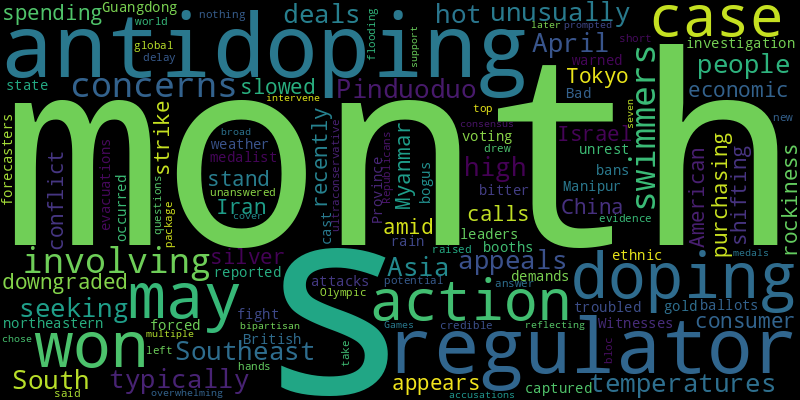
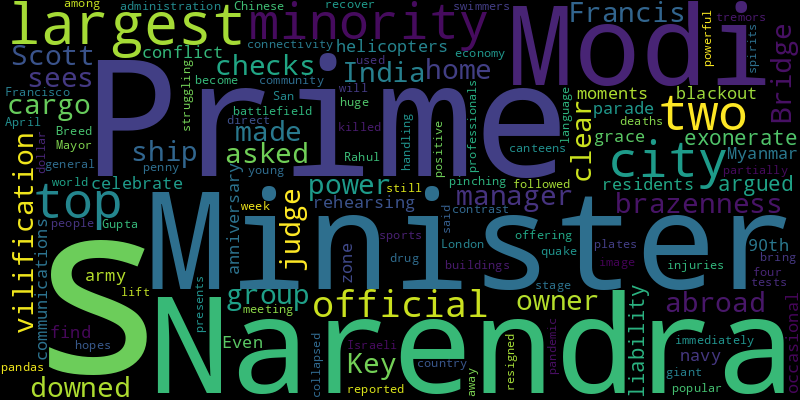
chore(bot): 🙈 auto commit

diff --git a/README.md b/README.md
@@ -2,41 +2,41 @@
 Auto RSS New York Times and Generate Word Cloud
 
 ## New York Times Global News
-* Aharon Haliva, the head of military intelligence, is the highest-ranking Israeli official to step down since the Hamas-led attack.
-* The strike on Iran on Friday was originally intended to be much broader in scope, but after intense pressure from allies, Israeli leaders agreed to ratchet it down.
+* The United Nations and others said donors should resume support for UNRWA after a review found that Israel hadn’t backed up claims that many agency workers are members of terrorist groups.
+* The United Nations says famine is likely to set in by May. For those living under Israel’s attacks and a crippling blockade, every day is a race against time.
+* Even through the Myanmar army’s communications blackout, residents of a conflict zone find moments of grace, and occasional connectivity, away from the battlefield.
+* The two helicopters were rehearsing for a parade to celebrate the navy’s 90th anniversary.
+* The outlay reached $2.4 trillion last year, a research group found, 6.8 percent up on 2022. Tensions in Asia and the Middle East also contributed.
+* Britain’s Parliament passed contentious legislation to allow the deportation of asylum seekers to the African country, a political victory for Prime Minister Rishi Sunak.
+* The direct language used against the country’s largest minority was a contrast to the image Prime Minister Narendra Modi presents on the world stage.
+* Sensitive naval data and a high-powered laser were obtained for China by three German citizens, according to prosecutors.
 * April is typically hot in South and Southeast Asia, but temperatures this month have been unusually high.
-* Much-needed munitions like artillery shells could start arriving relatively quickly, but experts say it could take weeks before U.S. assistance has a direct impact on the war.
-* The assaults have all but destroyed the factories and plants that were the economic lifeblood of the towns and cities in Ukraine’s east.
-* Voters in Ecuador gave their new president, Daniel Noboa, who deployed the military to fight gangs in January, even more powers.
-* After Britain’s next election, David Lammy is likely to be foreign secretary. He’s setting out a “progressive realist” policy — and forging ties on the U.S. right, just in case.
-* Facing deep economic troubles and a restive population, the government seems to have adopted a policy of declaring victory over Israel and cracking down at home, analysts say.
-* An American who won silver in Tokyo calls for an investigation. A British gold medalist demands bans. But the most bitter fight was between antidoping leaders.
-* The attacks occurred in Manipur, a northeastern state that has been troubled by ethnic unrest. Witnesses reported that voting booths were captured and bogus ballots cast.
+* With a proposed sale stalled seven months after it was announced, a financially strapped Premier League team is pursuing a backup plan.
 
 ![Global](./global.png)
 ## New York Times United States News
-* The Getty House was broken into early Sunday through a smashed window, the police said. Mayor Karen Bass said she and her family were safe.
-* Diversity, equity and inclusion initiatives have become a target of conservatives across the nation, with several states passing laws against them.
-* In 1968, the Democratic National Convention was overshadowed by clashes between police and demonstrators.
+* Dozens were arrested Monday at N.Y.U. and Yale, but officials there and at campuses across the country are running out of options to corral protests that are expected to last the rest of the school year.
+* In a city still struggling to recover from the pandemic, Mayor London Breed hopes giant pandas will lift the spirits — and the economy — of San Francisco.
 * First, fish off the Florida Keys started swimming in spirals or upside down. Then, endangered sawfish started dying. Scientists are racing to figure out why.
-* National Labor Relations Board testimony, now in the hands of a judge, could have wide-ranging consequences — positive and negative — for athletes and their institutions.
-* A group of homeless people in a small Oregon city challenged local laws banning sleeping in public. The case has broad implications for homelessness policy throughout the country.
-* At a national park in Virginia on Monday, the president will point to investments in clean energy and appear with future members of his American Climate Corps.
-* Summer Lee, the first Black woman to represent Pennsylvania in the House, got help from Alexandria Ocasio-Cortez and Justin Jones as she faced criticism over her stance on Gaza.
-* The Beirut bureau chief for The Associated Press, he was kidnapped in 1985 by Islamic militants.
-* The ad portrays a woman trying to leave the state to have an abortion. The Campaign for Democracy, a political action committee started by Mr. Newsom, the California governor, created it.
+* Demonstrations outside the school gates have added to the upheaval, with protesters who appear unconnected to the university targeting Jewish students.
+* The Biden campaign has made abortion one of its top issues, as polling shows it is one of the few subjects in which voters place more trust in President Biden than Donald Trump.
+* Project Maven was meant to revolutionize modern warfare. But the conflict in Ukraine has underscored how difficult it is to get 21st-century data into 19th-century trenches.
+* Neighbors have multiple opportunities to raise objections, and some disputes can only be resolved by the city’s top governing body.
+* Democrats see an opening to win back rural Trump voters fed up with their groundwater being pumped by huge farms.
+* The owner and manager of the cargo ship that downed the Francis Scott Key Bridge asked a judge to exonerate them from liability. The city argued otherwise.
+* Pro-Palestinian protesters, many of whom are Jewish, prepared Seder dinners at college protest encampments, even as other Jewish students sought community in more traditional settings.
 
 ![US](./usnews.png)
 ## New York Times Asia News
-* April is typically hot in South and Southeast Asia, but temperatures this month have been unusually high.
-* Pinduoduo appeals to people seeking deals and “downgraded spending,” as consumer purchasing in China has slowed recently amid economic rockiness.
-* Also, Iran appears to stand down after Israel’s strike and Myanmar’s conflict may be shifting.
-* An American who won silver in Tokyo calls for an investigation. A British gold medalist demands bans. But the most bitter fight was between antidoping leaders.
-* The attacks occurred in Manipur, a northeastern state that has been troubled by ethnic unrest. Witnesses reported that voting booths were captured and bogus ballots cast.
-* Bad weather in Guangdong Province forced evacuations as forecasters warned of more rain and potential flooding.
-* The short answer may be nothing. The world’s top doping regulator said there was “no credible evidence” to take further action.
-* A doping case involving Olympic swimmers has left unanswered questions and raised new concerns about the actions of a global antidoping regulator.
-* After months of delay at the hands of a bloc of ultraconservative Republicans, the package drew overwhelming bipartisan support, reflecting broad consensus.
-* The case, involving multiple swimmers who seven months later won medals at the 2021 Games, prompted accusations of a cover-up and concerns over why antidoping regulators chose not to intervene.
+* The brazenness of Prime Minister Narendra Modi’s vilification of India’s largest minority group made clear he sees few checks at home or abroad on his power.
+* The owner and manager of the cargo ship that downed the Francis Scott Key Bridge asked a judge to exonerate them from liability. The city argued otherwise.
+* The two helicopters were rehearsing for a parade to celebrate the navy’s 90th anniversary.
+* Even through the Myanmar army’s communications blackout, residents of a conflict zone find moments of grace, and occasional connectivity, away from the battlefield.
+* The community canteens, offering huge plates for a dollar or two, have become popular among penny-pinching young professionals.
+* No injuries or deaths were immediately reported, but four buildings partially collapsed in the tremors, which followed a powerful April 3 quake that killed 17 people.
+* In a city still struggling to recover from the pandemic, Mayor London Breed hopes giant pandas will lift the spirits — and the economy — of San Francisco.
+* Also, a top Israeli general resigned.
+* The administration’s top drug official, Rahul Gupta, said he would bring up the handling of Chinese swimmers’ positive tests at a meeting of sports officials this week.
+* The direct language used against the country’s largest minority was a contrast to the image Prime Minister Narendra Modi presents on the world stage.
 
 ![Asian](./asian.png)
